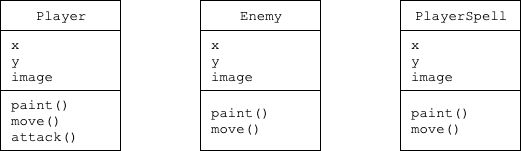
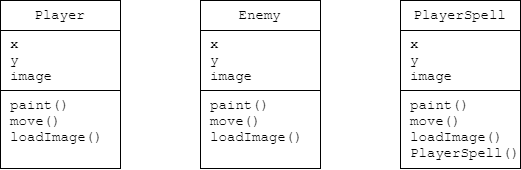
Constructor exercise

diff --git a/constructor.md b/constructor.md
@@ -1,0 +1,92 @@
+## TechKids - Code Intensive - Hướng dẫn thực hành
+### Hàm tạo (constructor)
+
+1. Hiện tại, trong `GameCanvas`, để khởi tạo và sử dụng được 1 đối tượng `PlayerSpell`, cần đến 4 dòng code:
+
+<pre>
+      public GameCanvas() {
+        ...
+        PlayerSpell firstSpell = new PlayerSpell();
+        firstSpell.x = 170;
+        firstSpell.y = 450;
+        firstSpell.loadImage();
+        ...
+      }
+</pre>
+
+hay
+
+<pre>
+      void castSpells() {
+        ...
+        PlayerSpell newSpell = new PlayerSpell();
+        newSpell.x = p.x;
+        newSpell.y = p.y;
+        newSpell.loadImage();
+        ...
+      }
+</pre>
+
+2. Hay nói cách khác, để có thể bắt đầu sử dụng được 1 đối tượng `PlayerSpell`, lập trình viên sử dụng `PlayerSpell` sẽ phải nhớ và làm đủ 4 thao tác này
+
+3. Việc này nghe có vẻ nhẹ nhàng vì hiện giờ trong game mới chỉ tồn tại 1 class có vấn đề như vậy, tuy nhiên với các chương trình Java, số lượng class cần khai báo như vậy có thể nhiều hơn đến hàng trăm, hàng nghìn lần, đồng nghĩa với việc xác suất quên một trong vài thao tác trên, phát sinh các lỗi về logic không đáng có.
+
+4. Trong lập trình hướng đối tượng mà cụ thể là Java, sai sót này được loại bỏ bằng cách viết hàm tạo (constructor) cho `PlayerSpell`, để khi cần khởi tạo đối tượng, người sử dụng class buộc phải cung cấp đầy đủ các thông tin cho đối tượng luôn, nếu không muốn chương trình lỗi không thể chạy được.
+
+5. Mở file `PlayerSpell.java`, bắt đầu thực hiện việc viết hàm tạo cho class này
+
+<pre>
+public class PlayerSpell {
+    int x;
+    int y;
+    BufferedImage image;
+    ...
+    <b>PlayerSpell(int xStart, int yStart) {
+      x = xStart;
+      y = yStart;
+    }</b>
+    ...
+}
+</pre>
+
+Chú ý:
+1. `PlayerSpell()` được gọi là hàm tạo (constructor) với dấu hiệu nhận biết là __không có kiểu trả về__ và __có cùng tên với tên của class__
+2. Để `PlayerSpell` khởi tạo được, lập trình viên buộc phải cung cấp hai tham số đầu vào là `xStart` và `yStart`, là 2 giá trị ban đầu cho `x` và `y`
+
+6. Quay lại file `GameCanvas.java`, có thể thấy `IntelliJ` đang báo lỗi khởi tạo cho `PlayerSpell` với lý do không cung cấp đủ tham số
+
+
+![Constructor error 1](images\constructor\constructor_error_1.png)
+
+Và
+
+![Constructor error 1](images\constructor\constructor_error_2.png)
+
+7. Để có thể khởi tạo được `PlayerSpell`, lập trình viên buộc phải thay đổi cách gọi hàm tạo, cung cấp các tham số mà hàm này yêu cầu
+
+<pre>
+  public GameCanvas() {
+    ...
+    <s>PlayerSpell firstSpell = new PlayerSpell()</s>
+    <s>firstSpell.x = 170</s>
+    <s>firstSpell.y = 450</s>
+    <b>PlayerSpell firstSpell = new PlayerSpell(170, 450);</b>
+    firstSpell.loadImage();
+    ...
+  }
+</pre>
+
+<pre>
+  void castSpells() {
+    if (xPressed) {
+      <s>PlayerSpell newSpell = new PlayerSpell();</s>
+      <s>newSpell.x = p.x</s>
+      <s>newSpell.y = p.y</s>
+      <b>PlayerSpell newSpell = new PlayerSpell(p.x, p.y);</b>
+      newSpell.loadImage();
+      ...
+</pre>
+
+8. Chạy thử chương trình, nếu các tính năng vẫn hoạt động bình thường, việc khai báo và sử dụng hàm tạo đã hoàn tất
+
+![Result](images\constructor\result.gif)

diff --git a/inheritance.md b/inheritance.md
@@ -17,7 +17,7 @@
 
 5. Với những phần code giống nhau này, một người lập trình hướng đối tượng sẽ xử lý như sau
 
-6. Tạo ra 1 class, tạm gọi là class `X`, chứa tất cả các phần code chung (thuộc tính hay hàm)
+6. Tạo ra 1 class, tạm gọi là class `X`, chứa tất cả các phần code chung (cả thuộc tính và phương thức)
 
 ![Class X](images/inheritance/class_x.png)
 
@@ -43,7 +43,7 @@ Chú ý: Hàm `move()` và `loadImage()` mặc dù trùng tên nhưng nội dung
 ![New game object](images/inheritance/new_game_object.png)
 
 12. Trong `GameObject`, thực hiện thêm các thuộc tính `x`, `y`, `image` và hàm/phương thức `loadImage()`, `paint()`
-i
+
 <pre>
 <b>
 import javax.imageio.ImageIO;
@@ -52,7 +52,6 @@ import java.awt.image.BufferedImage;
 import java.io.File;
 import java.io.IOException;
 </b>
-
 public class GameObject {
     <b>int x;
     int y;
@@ -75,10 +74,10 @@ public class Enemy <b>extends GameObject</b> {
 15. Sau đó bỏ đi những phần code có sẵn nhờ kế thừa
 
 <pre>
-public class Enemy <b>extends GameObject</b> {<s>
-    int x;
-    int y;
-    BufferedImage image;</s>
+public class Enemy <b>extends GameObject</b> {
+    <s>int x;</s>
+    <s>int y;</s>
+    <s>BufferedImage image;</s>
 
     void loadImage() {
         try {
@@ -88,15 +87,14 @@ public class Enemy <b>extends GameObject</b> {<s>
         }
     }
 
-    void updatePosition() {
+    void move() {
         y += 1;
     }
-<s>
-    void paint(Graphics g) {
-        g.drawImage(image, x, y,null);
-    }
-</s>
+
+    <s>void paint(Graphics g) {</s>
+        <s>g.drawImage(image, x, y, null);</s>
+    <s>}</s>
 }
 </pre>
 
-16. Chạy chương trình. Nếu chương trình chạy được không lỗi, việc kế thừa `GameObject` tại Enemy đã thành công.
+16. Chạy chương trình. Nếu chương trình chạy được không lỗi, việc kế thừa `GameObject` ở `Enemy` đã thành công.

diff --git a/constructor_enemy_player.md b/constructor_enemy_player.md
@@ -1,0 +1,60 @@
+## TechKids - Code Intensive - Hướng dẫn thực hành
+### Hàm tạo cho Enemy và Player
+
+1. Viết hàm tạo cho class `Enemy`
+
+<pre>
+
+public class Enemy {
+  ...
+  <b>Enemy(int xStart, int yStart) {
+      x = xStart;
+      y = yStart;
+  }</b>
+  ...
+}
+
+</pre>
+
+2. Cập nhật lại code trong `GameCanvas.java`
+
+<pre>
+  public GameCanvas() {
+    ...
+    <s>e = new Enemy();</s>
+    <b>e = new Enemy(170, 0);</b>
+    ...
+  }
+</pre>
+
+3. Chạy để kiểm tra các chức năng đã thực hiện vẫn còn hoạt động
+
+![Constructor enemy player](images\constructor_enemy_player\constructor_enemy.gif)
+
+4. Viết hàm tạo cho class `Player`
+
+<pre>
+public class Player {
+    int x;<s> = 170;</s>
+    int y;<s> = 500</s>
+    BufferedImage image;
+    
+    Player() {
+        x = 170;
+        y = 500;
+    }
+</pre>
+
+Chú ý: Khác với `Enemy`, khi mà các đối tượng của class này có thể xuất hiện trên nhiều điểm khác nhau trên màn hình, nên cần hàm tạo có tham số `xStart`, `yStart` để cho phép người lập trình tạo ra các `Enemy` với tọa độ xuất hiện tùy ý, `Player` chỉ có 1 đối tượng và hiện tại chỉ cần xuất hiện trên đúng 1 điểm của màn hình, nên không cần các tham số đầu vào mà có thể gán thẳng `x`, `y` bên trong hàm tạo
+
+5. Do hàm tạo của Player ở GameCanvas vốn là hàm tạo không tham số từ đầu, nên không cần điều chỉnh gì cả
+
+<pre>
+    public GameCanvas() {
+      ...
+      p = new Player();
+      ...
+    }
+</pre>
+
+6. Chạy để kiểm tra các chức năng đã thực hiện vẫn còn hoạt động

diff --git a/README.md b/README.md
@@ -19,10 +19,12 @@
 18. [Bài tập: Sử dụng class để đóng gói player](ex_use_class_on_player.md)
 19. [Sử dụng class để đóng gói player](use_class_on_player.md)
 20. [Bài tập: Thêm bùa cho nhân vật](ex_add_player_spell.md)
-21. [Thêm bùa cho nhân vật](add_player_spell.md)
-22. [Thêm nhiều bùa cho nhân vật](add_player_spell_list.md)
-23. [Thêm tấn công cho cho nhân vật](add_player_attack.md)
-24. [Áp dụng kế thừa](inheritance.md)
+21. [Tấn công: Thêm bùa cho nhân vật](add_player_spell.md)
+22. [Tấn công: Thêm nhiều bùa cho nhân vật](add_player_spell_list.md)
+23. [Áp dụng hàm tạo (constructor)](constructor.md)
+23. [Bài tập: hàm tạo cho Enemy và Player](ex_constructor_enemy_player.md)
+24. [Viết hàm tạo cho Enemy và Player](constructor_enemy_player.md)
+24. [Áp dụng kế thừa (inheritance)](inheritance.md)
 25. [Bài tập: Áp dụng kế thừa cho player và enemy](ex_more_inheritance.md)
 26. [Áp dụng kế thừa cho player và enemy](ex_more_inheritance.md)
 27. Va chạm và tiêu diệt

diff --git a/add_enemy.md b/add_enemy.md
@@ -80,10 +80,10 @@ void updatePlayerPosition() {
 }
 </pre>
 
-9. Thực hiện cập nhật tọa độ của quân địch trong hàm `updateEnemyPosition()`. Do quân địch di chuyển tự dộng, việc cập nhật tọa độ được thực hiện mà không cần điều kiện từ bán phím
+9. Thực hiện cập nhật tọa độ của quân địch trong hàm `move()`. Do quân địch di chuyển tự dộng, việc cập nhật tọa độ được thực hiện mà không cần điều kiện từ bán phím
 
 <pre>
-void updateEnemyPosition() {
+void move() {
     enemyY += 1;
 }
 </pre>

diff --git a/use_class.md b/use_class.md
@@ -99,7 +99,7 @@ public class Enemy {
         }
     }
     
-    void updatePosition() {
+    void move() {
         y += 1; // Cập nhật tọa độ ~ di chuyển
     }
     
@@ -201,7 +201,7 @@ protected void paintComponent(Graphics g) {
 <pre>
 void updateEnemyPosition() {
     <s>enemyY += 1;</s>
-    <b>e.updatePosition();</b>
+    <b>e.move();</b>
 }
 </pre>
 

diff --git a/ex_more_inheritance.md b/ex_more_inheritance.md
@@ -1,4 +1,4 @@
 ## TechKids - Code Intensive - Hướng dẫn thực hành
 ### Bài tập về kế thừa
 
-Hãy áp dụng kế thừa `GameObject` vào `Player` và `Enemy`
+Hãy áp dụng kế thừa `GameObject` vào `Player` và `PlayerSpell`

diff --git a/ex_constructor_enemy_player.md b/ex_constructor_enemy_player.md
@@ -1,0 +1,4 @@
+## TechKids - Code Intensive - Hướng dẫn thực hành
+### Bài tập: Viết hàm tạo cho `Player` và `Enemy`
+
+Áp dụng kiến thức đã học ở bài trước. Hãy viết hàm tạo cho `Player` và `Enemy`

diff --git a/more_inheritance.md b/more_inheritance.md
@@ -1,0 +1,5 @@
+## TechKids - Code Intensive - Hướng dẫn thực hành
+### Áp dụng kế thừa vào `Player` và `PlayerSpell`
+
+1. Với Player
+
